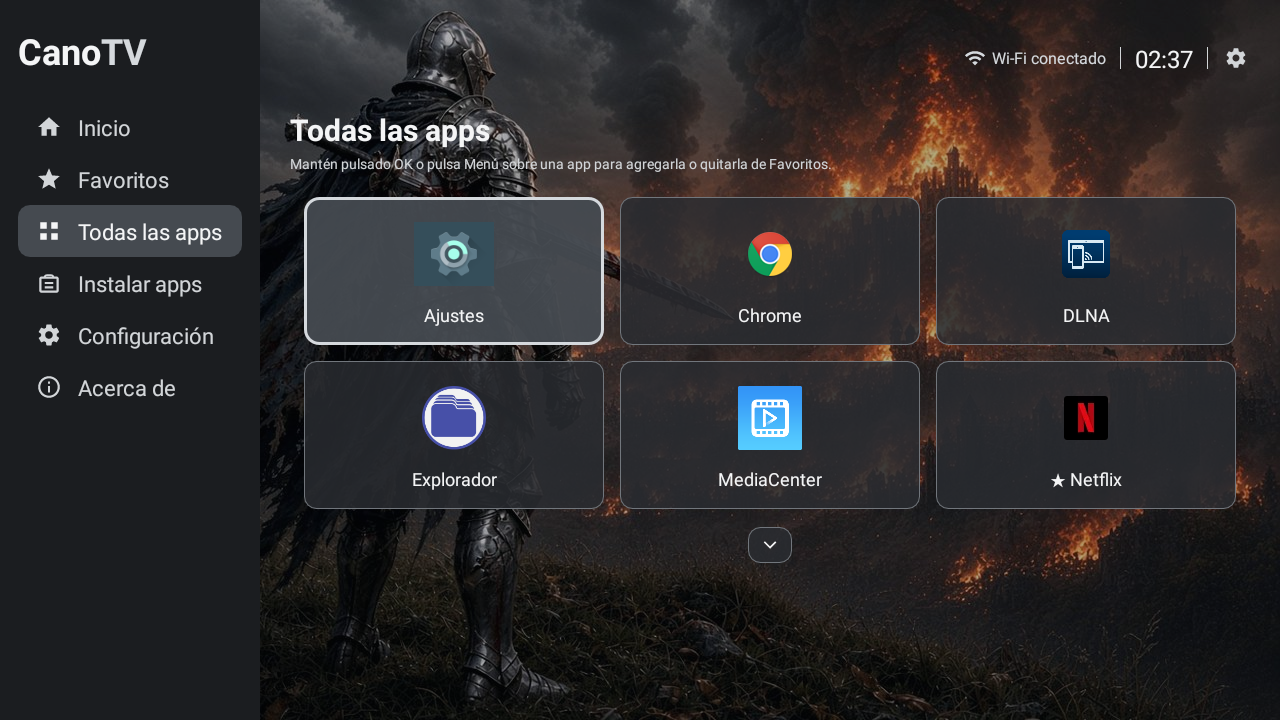
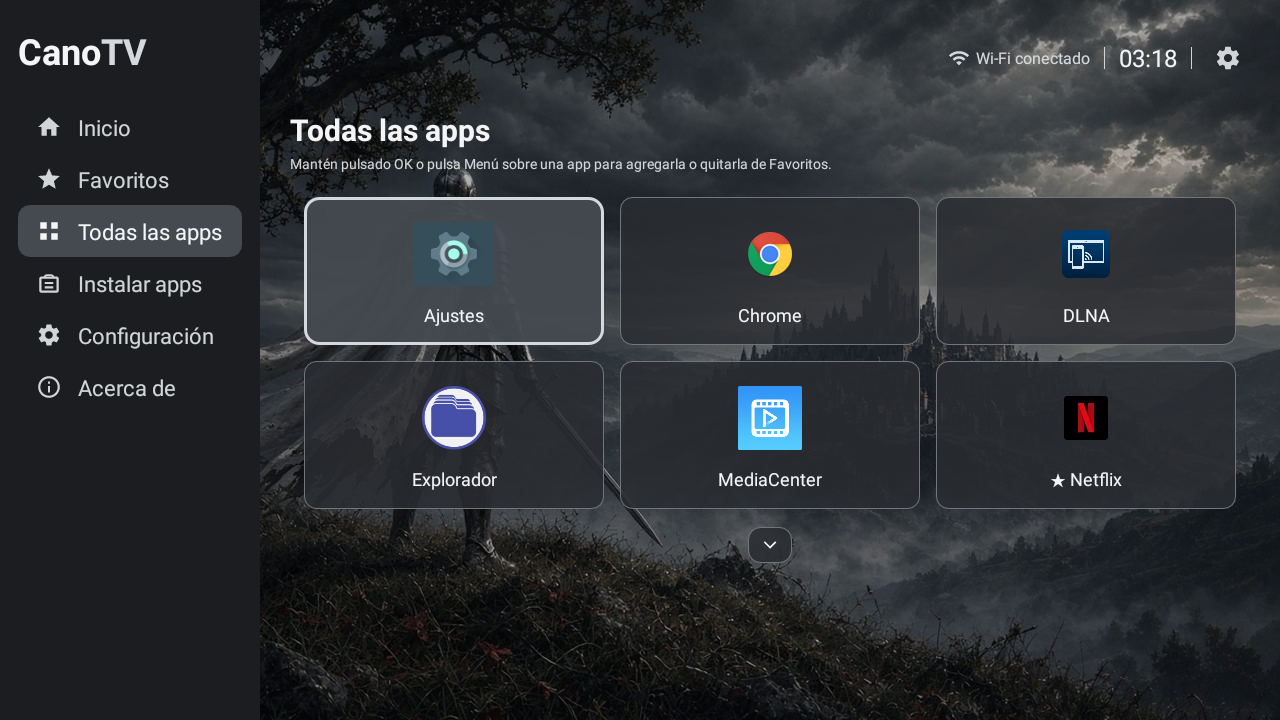
refactor: implemented new theme color and new background

Changed region(s): [[0.1875, 0.0, 1.0, 1.0], [0.3438, 0.8861, 0.4688, 0.9778], [0.7188, 0.5806, 0.75, 0.6417]]

diff --git a/app/src/main/java/com/cano/launcher/HomeActivity.kt b/app/src/main/java/com/cano/launcher/HomeActivity.kt
@@ -6,6 +6,7 @@ import android.content.Intent
 import android.content.IntentFilter
 import android.content.ActivityNotFoundException
 import android.graphics.drawable.TransitionDrawable
+import android.content.res.ColorStateList
 import android.net.ConnectivityManager
 import android.net.Network
 import android.net.NetworkCapabilities
@@ -233,7 +234,11 @@ class HomeActivity : AppCompatActivity() {
         binding.wifiIcon.setColorFilter(palette.muted)
         binding.wifiDivider.setBackgroundColor(palette.muted)
         binding.clockDivider.setBackgroundColor(palette.muted)
-        binding.headerSettings.setColorFilter(palette.muted)
+        binding.headerSettings.background = palette.navigationBackground()
+        binding.headerSettings.imageTintList = ColorStateList(
+            arrayOf(intArrayOf(android.R.attr.state_focused), intArrayOf()),
+            intArrayOf(palette.accent, palette.muted)
+        )
         binding.welcomeSubtitle.setTextColor(palette.muted)
         binding.exploreApps.background = palette.appCardBackground()
         binding.exploreApps.setTextColor(palette.text)
